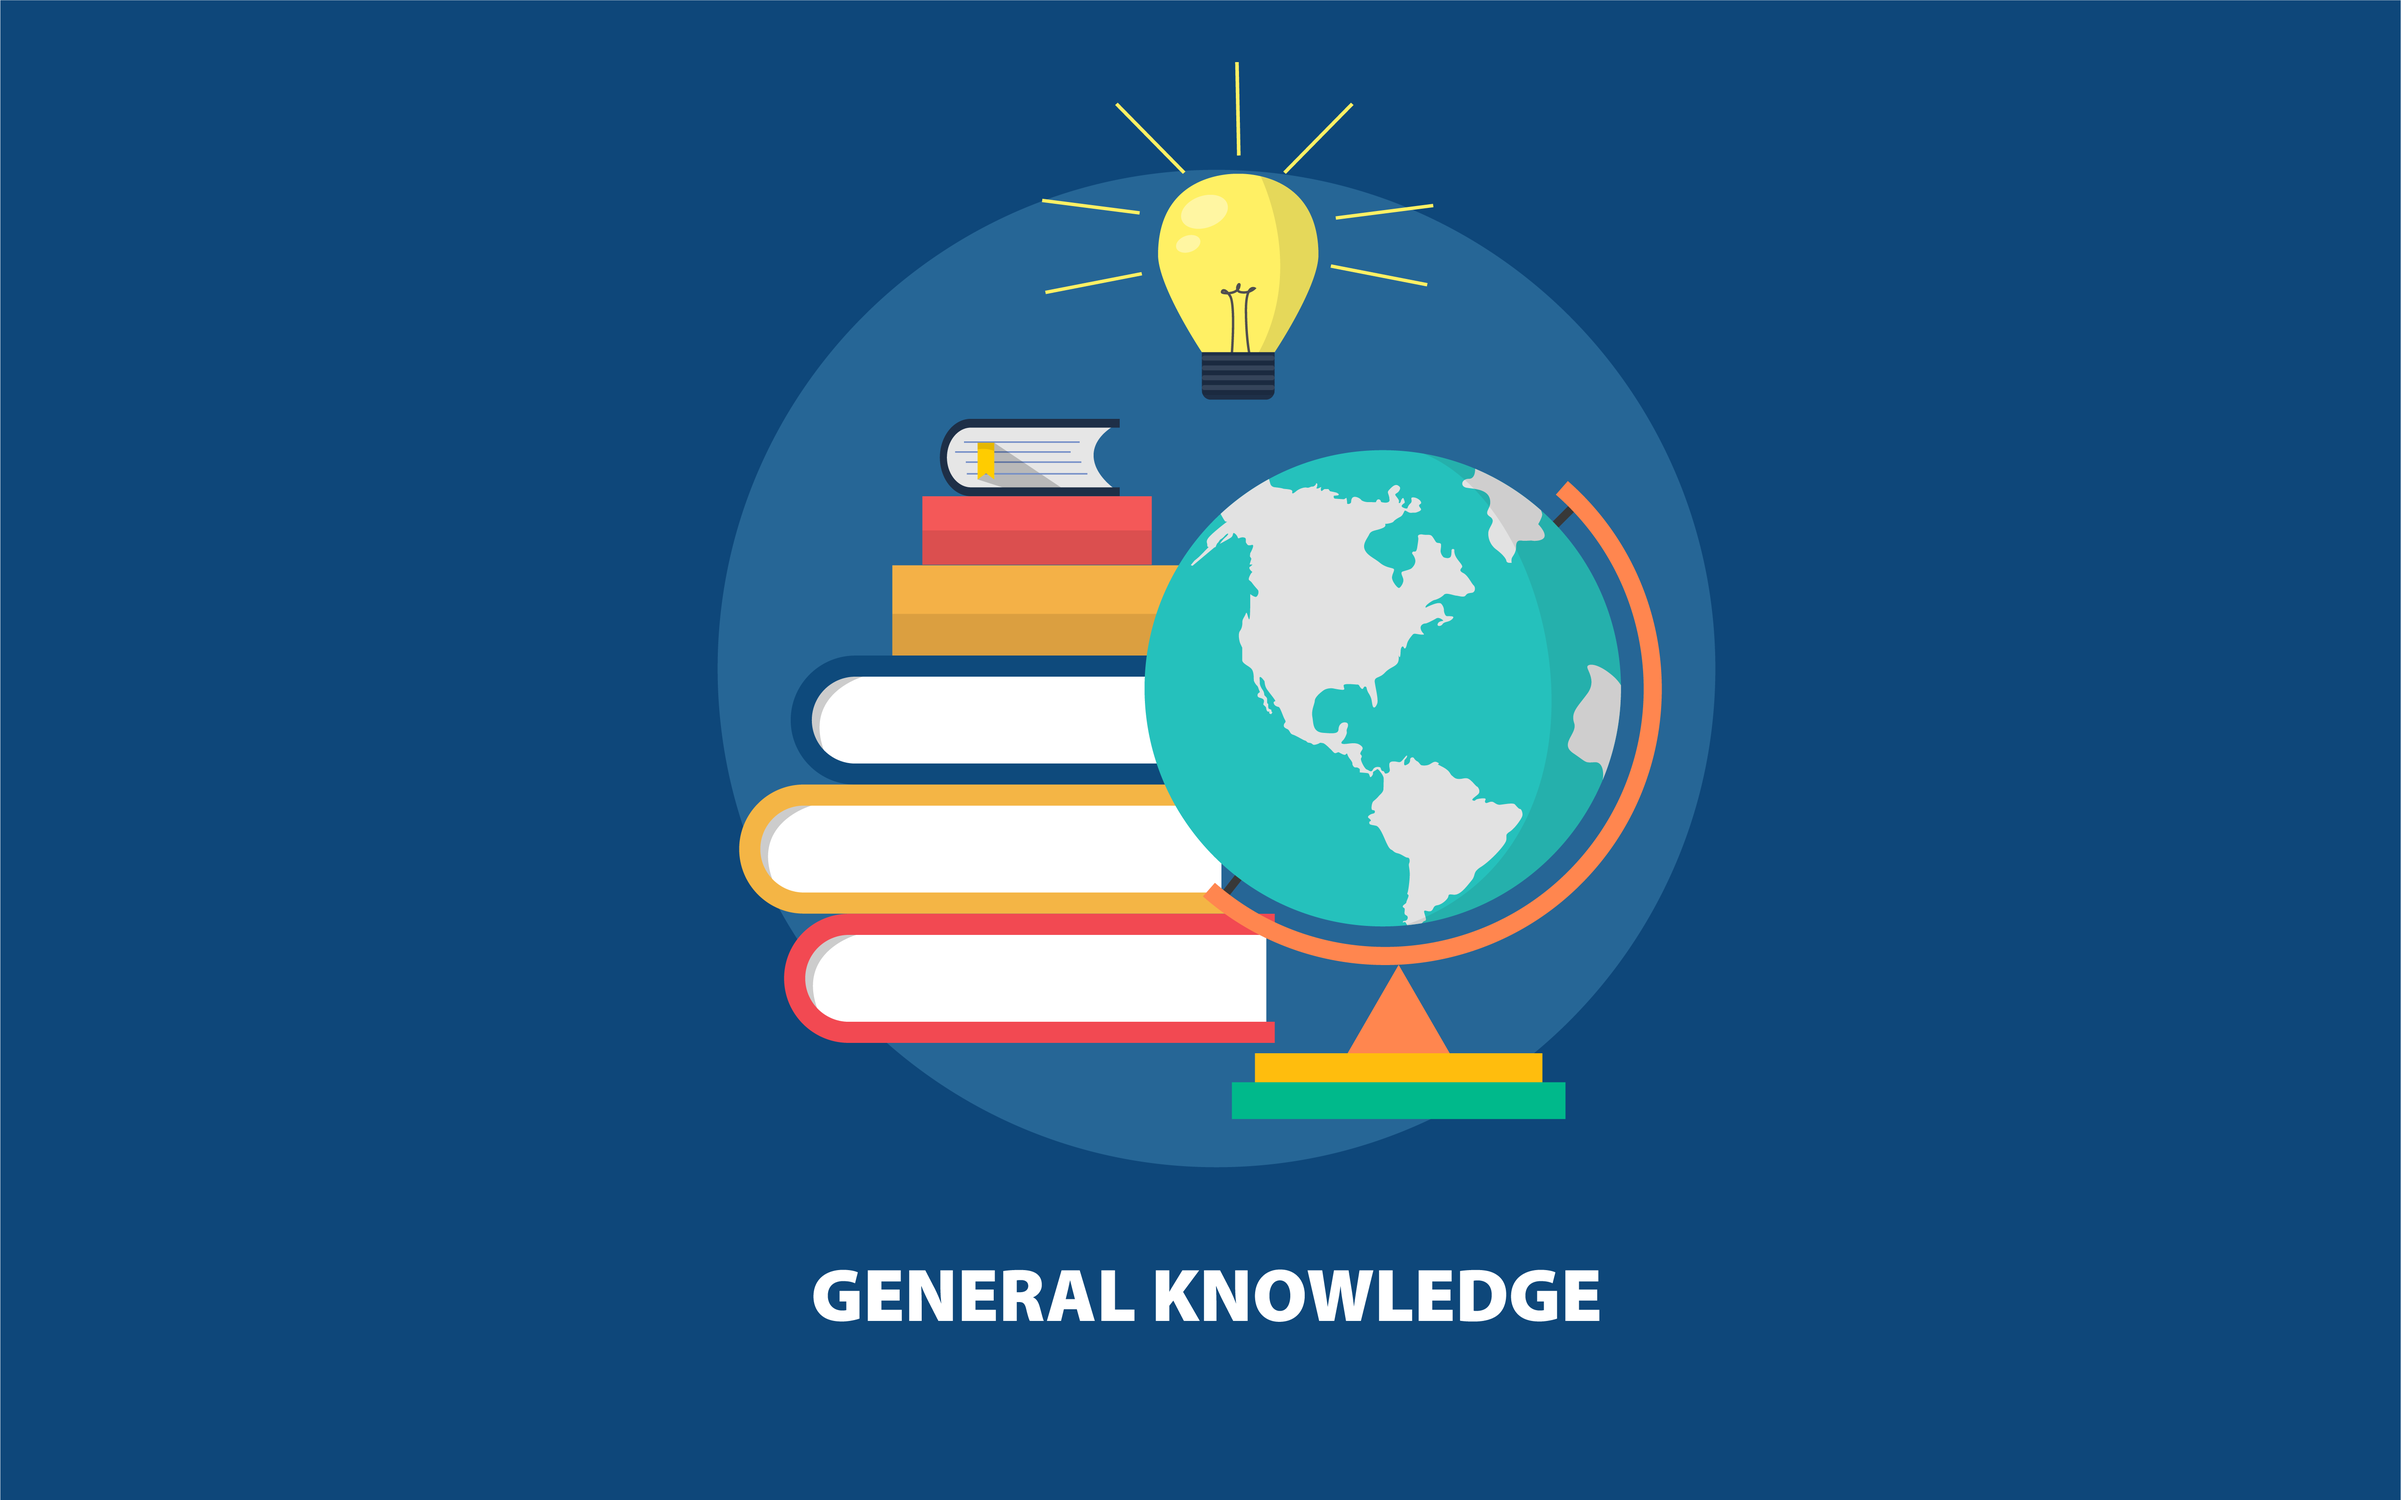
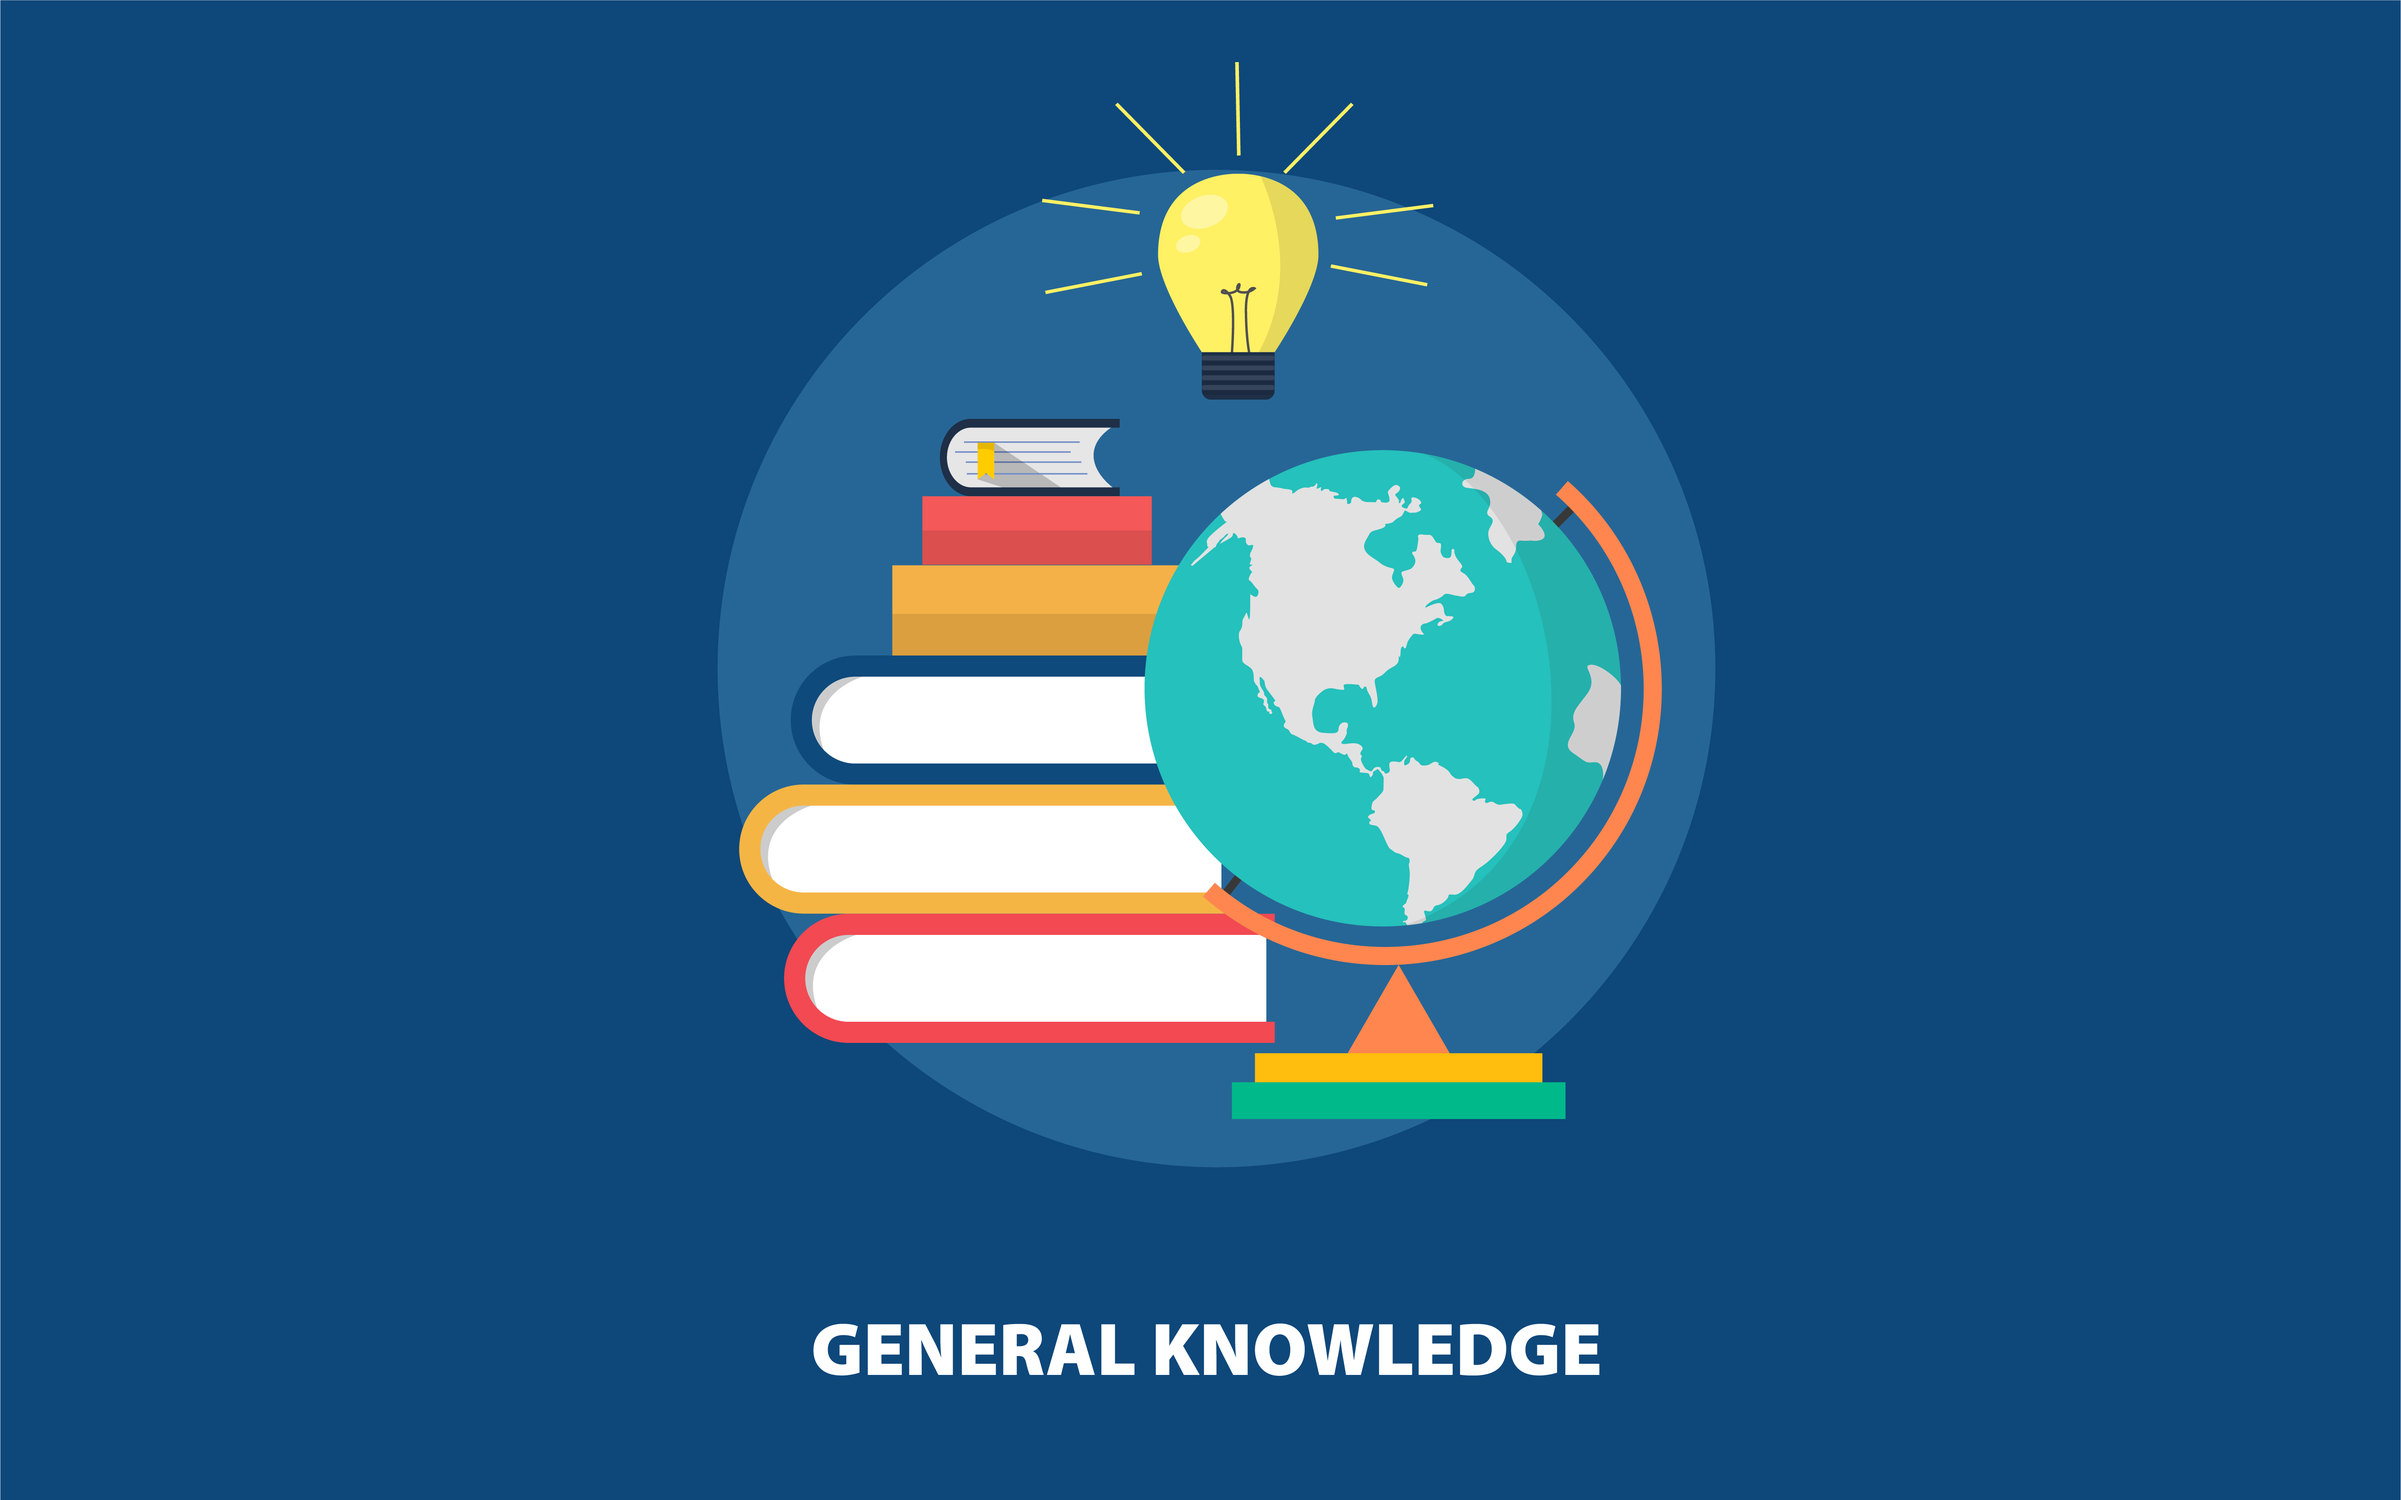
added images

Changed region(s): [[0.3423, 0.8422, 0.6845, 0.9358]]

diff --git a/gk.html b/gk.html
@@ -10,7 +10,8 @@
     <title>General Knowledge</title>
 </head>
 <body>
-    <h1 id="gk">General Knowledge</h1><br><br>
+    <h1 id="gk">General Knowledge</h1><br>
+    <a href='https://www.freepik.com/vectors/background'><img src="./images/gk_banner.png" alt="gk image" style="width: 100%;height: auto;"></a>
     <div class="block">
         <label>1 of 5</label>
         <h2 id="ques1"></h2>

diff --git a/anime.html b/anime.html
@@ -10,7 +10,8 @@
     <title>Anime</title>
 </head>
 <body>
-    <h1 id="an">Anime Trivia</h1><br><br>
+    <h1 id="an">Anime Trivia</h1><br>
+    <a href='https://www.freepik.com/vectors/character'><img src="./images/anime_banner.png" alt="anime image" style="width: 100%;height: auto;"></a>
     <div class="block">
         <label>1 of 5</label>
         <h2 id="ques1"></h2>

diff --git a/science.html b/science.html
@@ -10,7 +10,8 @@
     <title>Science</title>
 </head>
 <body>
-    <h1 id="sc">Science</h1><br><br>
+    <h1 id="sc">Science</h1><br>
+    <a href='https://www.freepik.com/vectors/education'><img src="./images//science_banner.png" alt="science image" style="width: 100%;height: auto;"></a>
     <div class="block">
         <label>1 of 5</label>
         <h2 id="ques1"></h2>

diff --git a/css/main.scss b/css/main.scss
@@ -15,6 +15,10 @@ h1{
     text-align: center;
     
 }
+img{
+    margin: 0%;
+    padding: 0;
+}
 a:focus{
     outline: none;
     border: none;

diff --git a/css/main.css b/css/main.css
@@ -17,6 +17,11 @@ h1 {
   text-align: center;
 }
 
+img {
+  margin: 0%;
+  padding: 0;
+}
+
 a:focus {
   outline: none;
   border: none;
